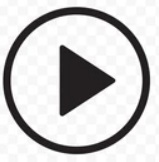
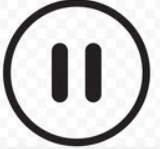
mmmmmmmmm

diff --git a/Entities/Animal.cpp b/Entities/Animal.cpp
@@ -95,3 +95,33 @@ bool Wolf::isTouching(Animal* other)
 	return (abs(curr_pos.x - other->curr_pos.x) < width &&
 		abs(curr_pos.y - other->curr_pos.y) < height);
 }
+
+Egg::Egg(Game* r_pGame, point r_point, int r_width, int r_height) : Drawable(r_pGame, r_point, r_width, r_height)
+{
+}
+
+void Egg::draw() const
+{
+	window* pWind = pGame->getWind();
+	pWind->DrawImage("images\\egg.jpg", RefPoint.x, RefPoint.y, width, height);
+}
+
+Milk::Milk(Game* r_pGame, point r_point, int r_width, int r_height) : Drawable(r_pGame, r_point, r_width, r_height)
+{
+}
+
+void Milk::draw() const
+{
+	window* pWind = pGame->getWind();
+	pWind->DrawImage("images\\milk.jpg", RefPoint.x, RefPoint.y, width, height);
+}
+
+void Animal::incrementCounter()
+{
+	counter++;
+}
+
+bool Animal::hasProduct() const
+{
+	return counter >= maxCounter;
+}

diff --git a/Core/Game.h b/Core/Game.h
@@ -33,7 +33,7 @@ public:
 
 	void printMessage(string msg) const;	//Print a message on Status bar
 
-	void go() const;
+	void go();
 
 	window* getWind() const;		//returns a pointer to the graphics window
 };
